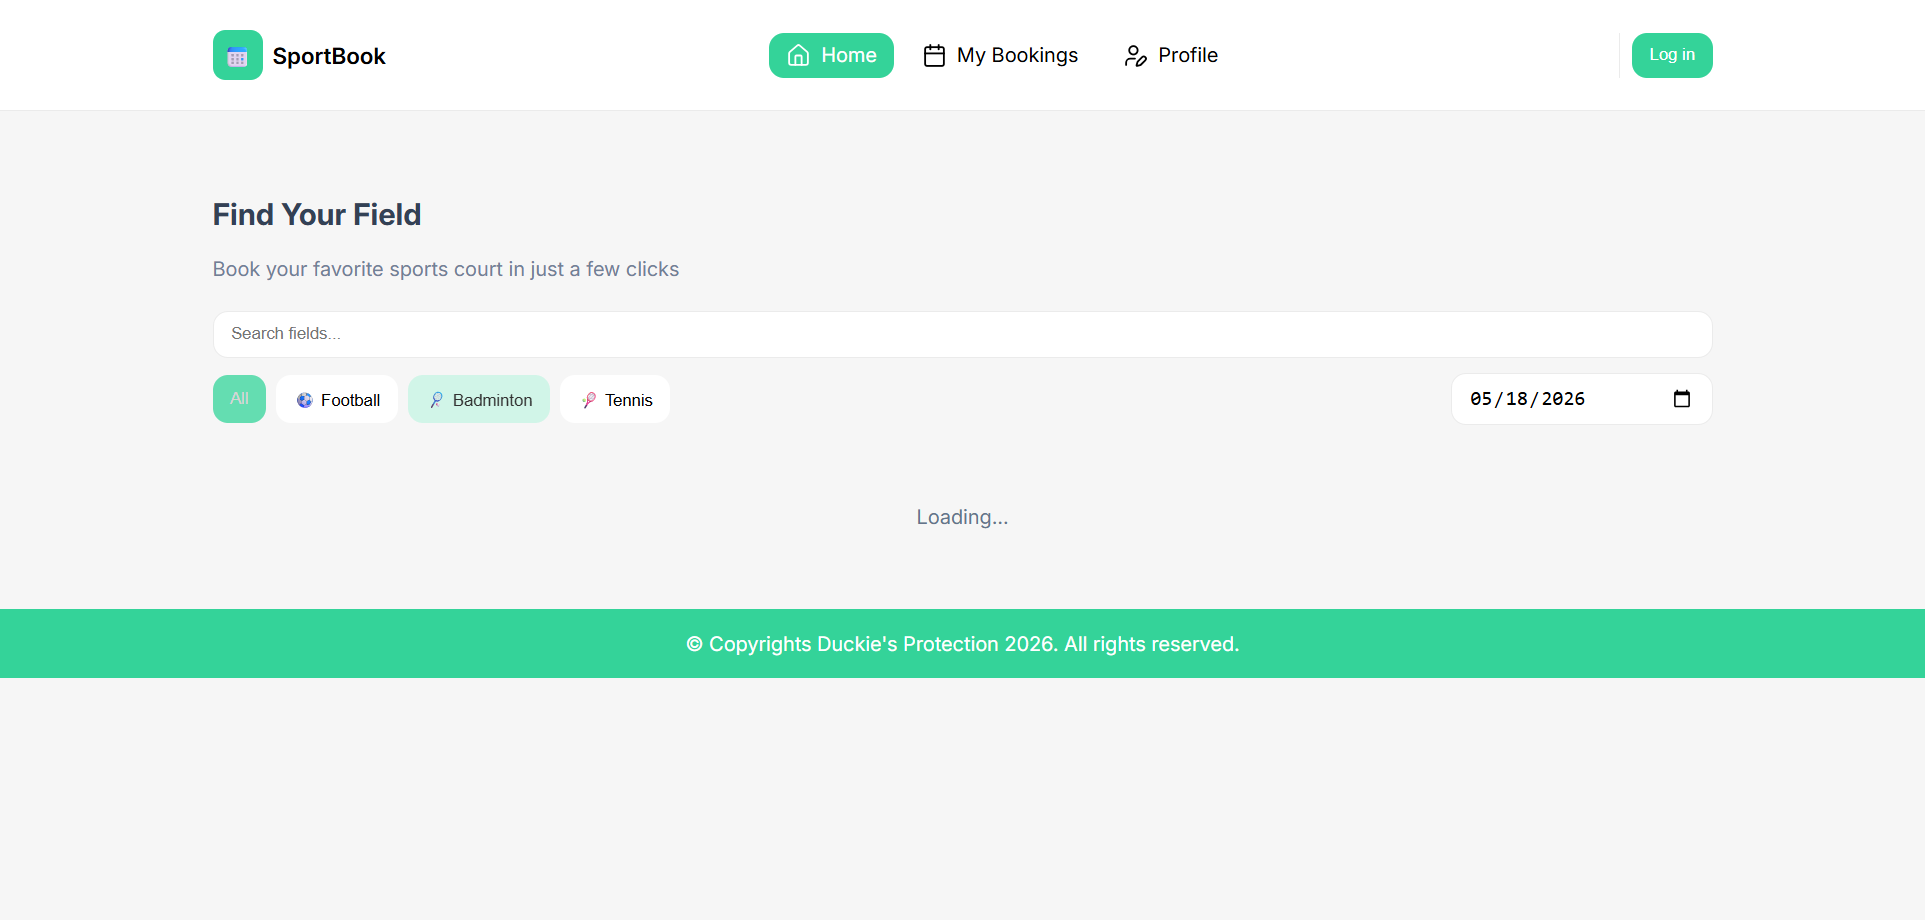
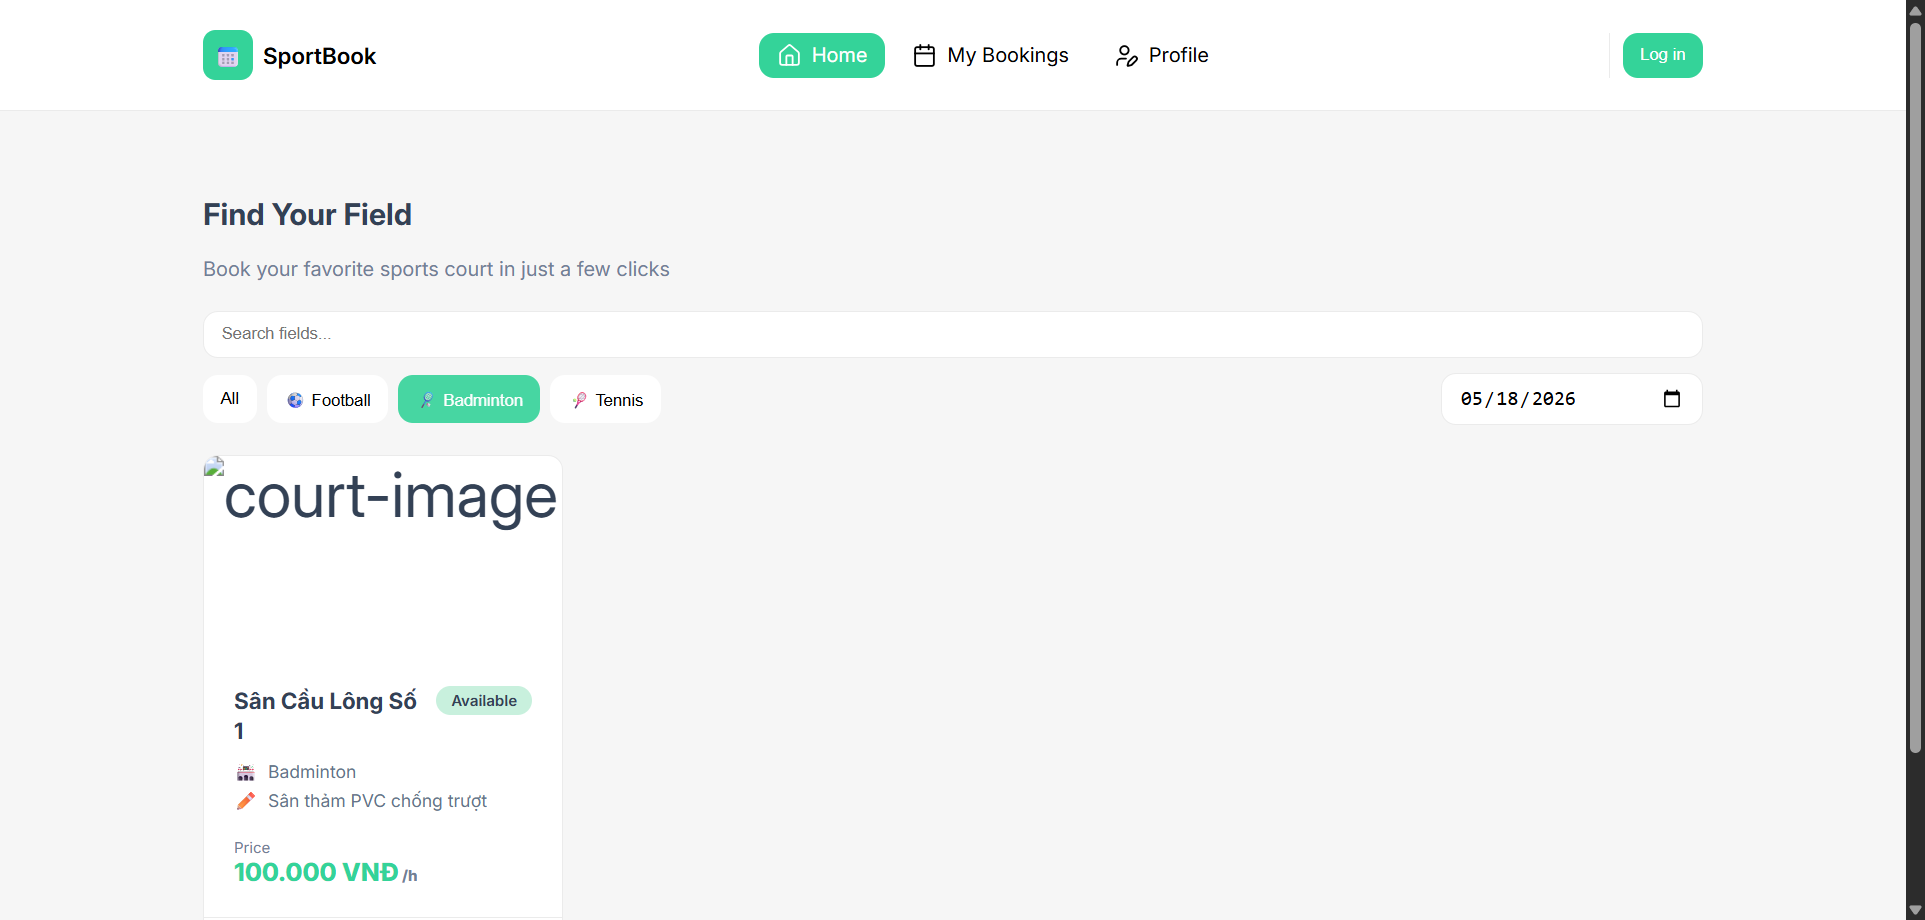
Add brief waits and update home screenshots
Insert short time.sleep(1) delays in home UI tests to stabilize page state before taking screenshots and change the search keyword from "VIP" to "1". Update screenshots: add TC_HOME_01_search_1.png, remove TC_HOME_01_search_VIP.png, and replace several other home screenshots. The compiled test pyc was also updated. These changes aim to make screenshot captures more reliable during tests.

diff --git a/tests/home/test_sel_home.py b/tests/home/test_sel_home.py
@@ -4,14 +4,16 @@ from tests.pages.LoginPage import LoginPage
 from selenium.webdriver.common.by import By
 from selenium.webdriver.support.ui import WebDriverWait
 from selenium.webdriver.support import expected_conditions as EC
+import time
 
 
 # TC_HOME_01
 def test_search_courts_by_keyword(driver):
     page = HomePage(driver)
     page.open_page()
-    kw = "VIP"
+    kw = "1"
     page.search(kw)
+    time.sleep(1)
     page.screenshot(f"TC_HOME_01_search_{kw}")
 
     names = page.get_court_names()
@@ -25,6 +27,7 @@ def test_search_no_result(driver):
     page = HomePage(driver)
     page.open_page()
     page.search("XYZZZZNOTEXIST123")
+    time.sleep(1)
     page.screenshot("TC_HOME_02_search_no_result")
 
     assert page.is_empty_state_visible(), "Không hiển thị empty state khi không có kết quả"
@@ -35,6 +38,7 @@ def test_filter_by_football(driver):
     page = HomePage(driver)
     page.open_page()
     page.filter_by_sport("football")
+    time.sleep(1)
     page.screenshot("TC_HOME_03_filter_football")
 
     assert "localhost:5173" in driver.current_url
@@ -45,6 +49,7 @@ def test_filter_by_badminton(driver):
     page = HomePage(driver)
     page.open_page()
     page.filter_by_sport("badminton")
+    time.sleep(1)
     page.screenshot("TC_HOME_04_filter_badminton")
     assert "localhost:5173" in driver.current_url
 
@@ -54,6 +59,7 @@ def test_filter_by_tennis(driver):
     page = HomePage(driver)
     page.open_page()
     page.filter_by_sport("tennis")
+    time.sleep(1)
     page.screenshot("TC_HOME_05_filter_tennis")
     assert "localhost:5173" in driver.current_url
 
@@ -68,6 +74,7 @@ def test_click_book_now_redirects_to_court(driver):
     home.open_page()
     home.click_book_first()
 
+    time.sleep(1)
     home.screenshot("TC_HOME_06_book_now_redirect")
     home.wait_url_contains("/court/")
     assert "/court/" in driver.current_url, \
